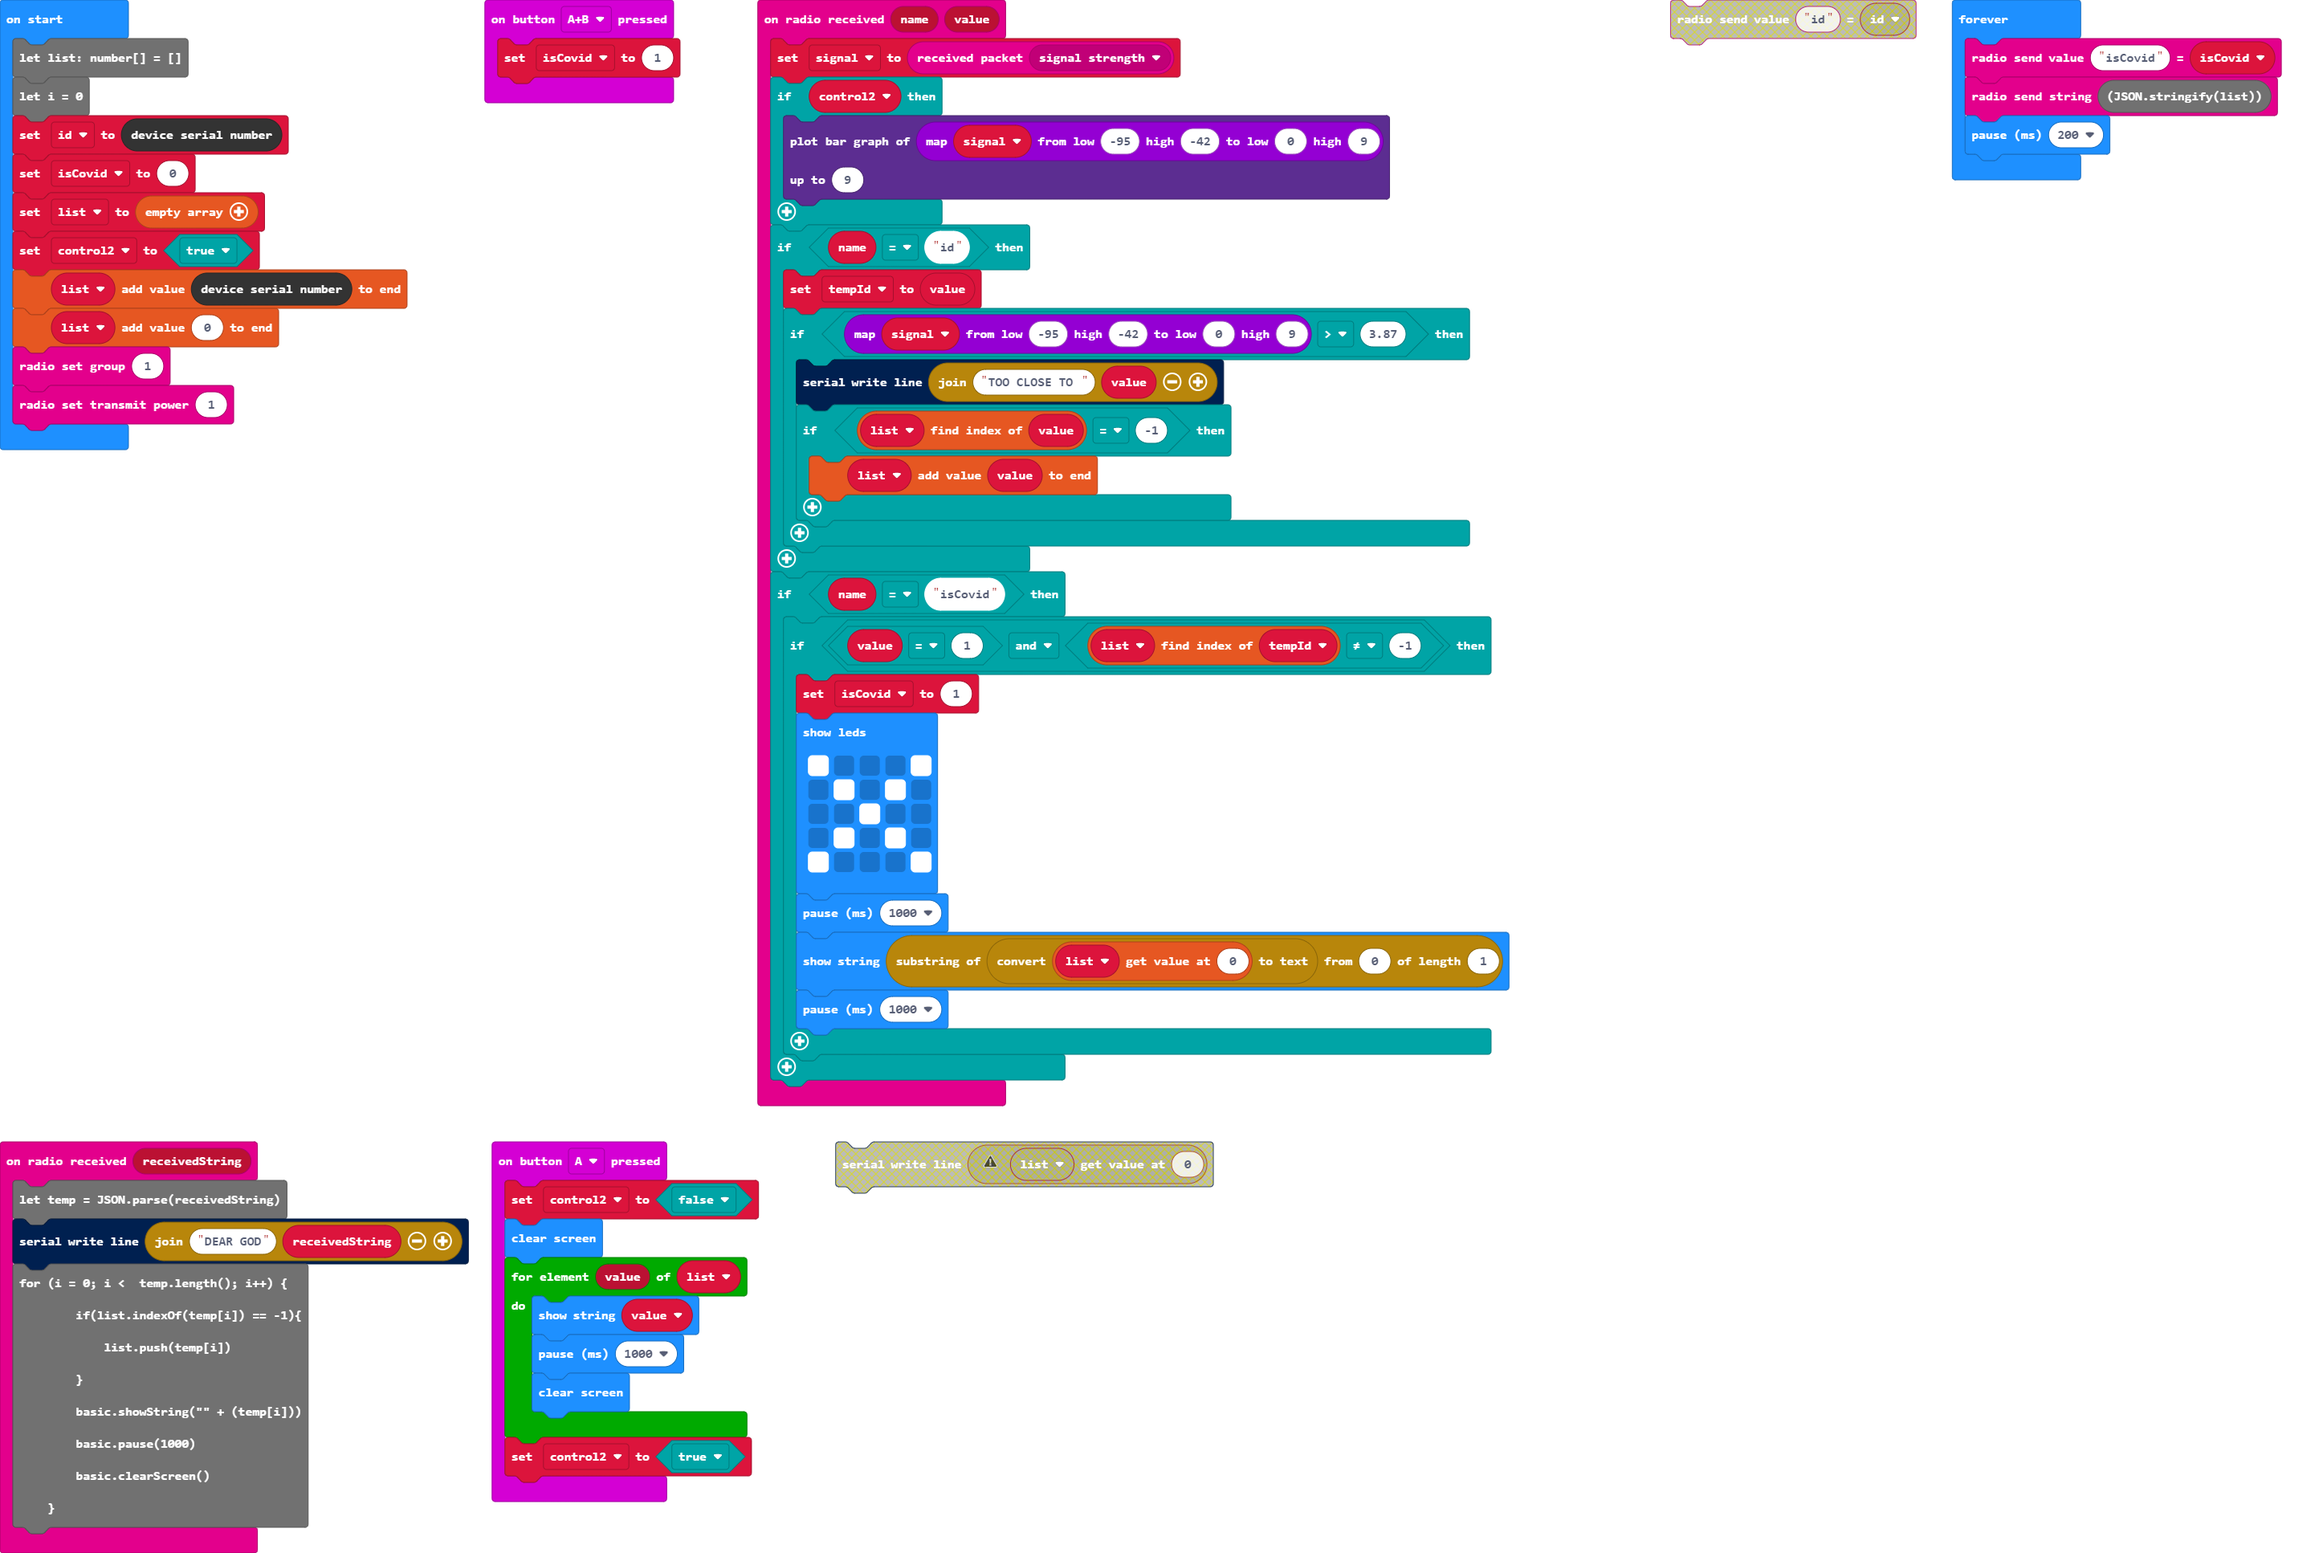
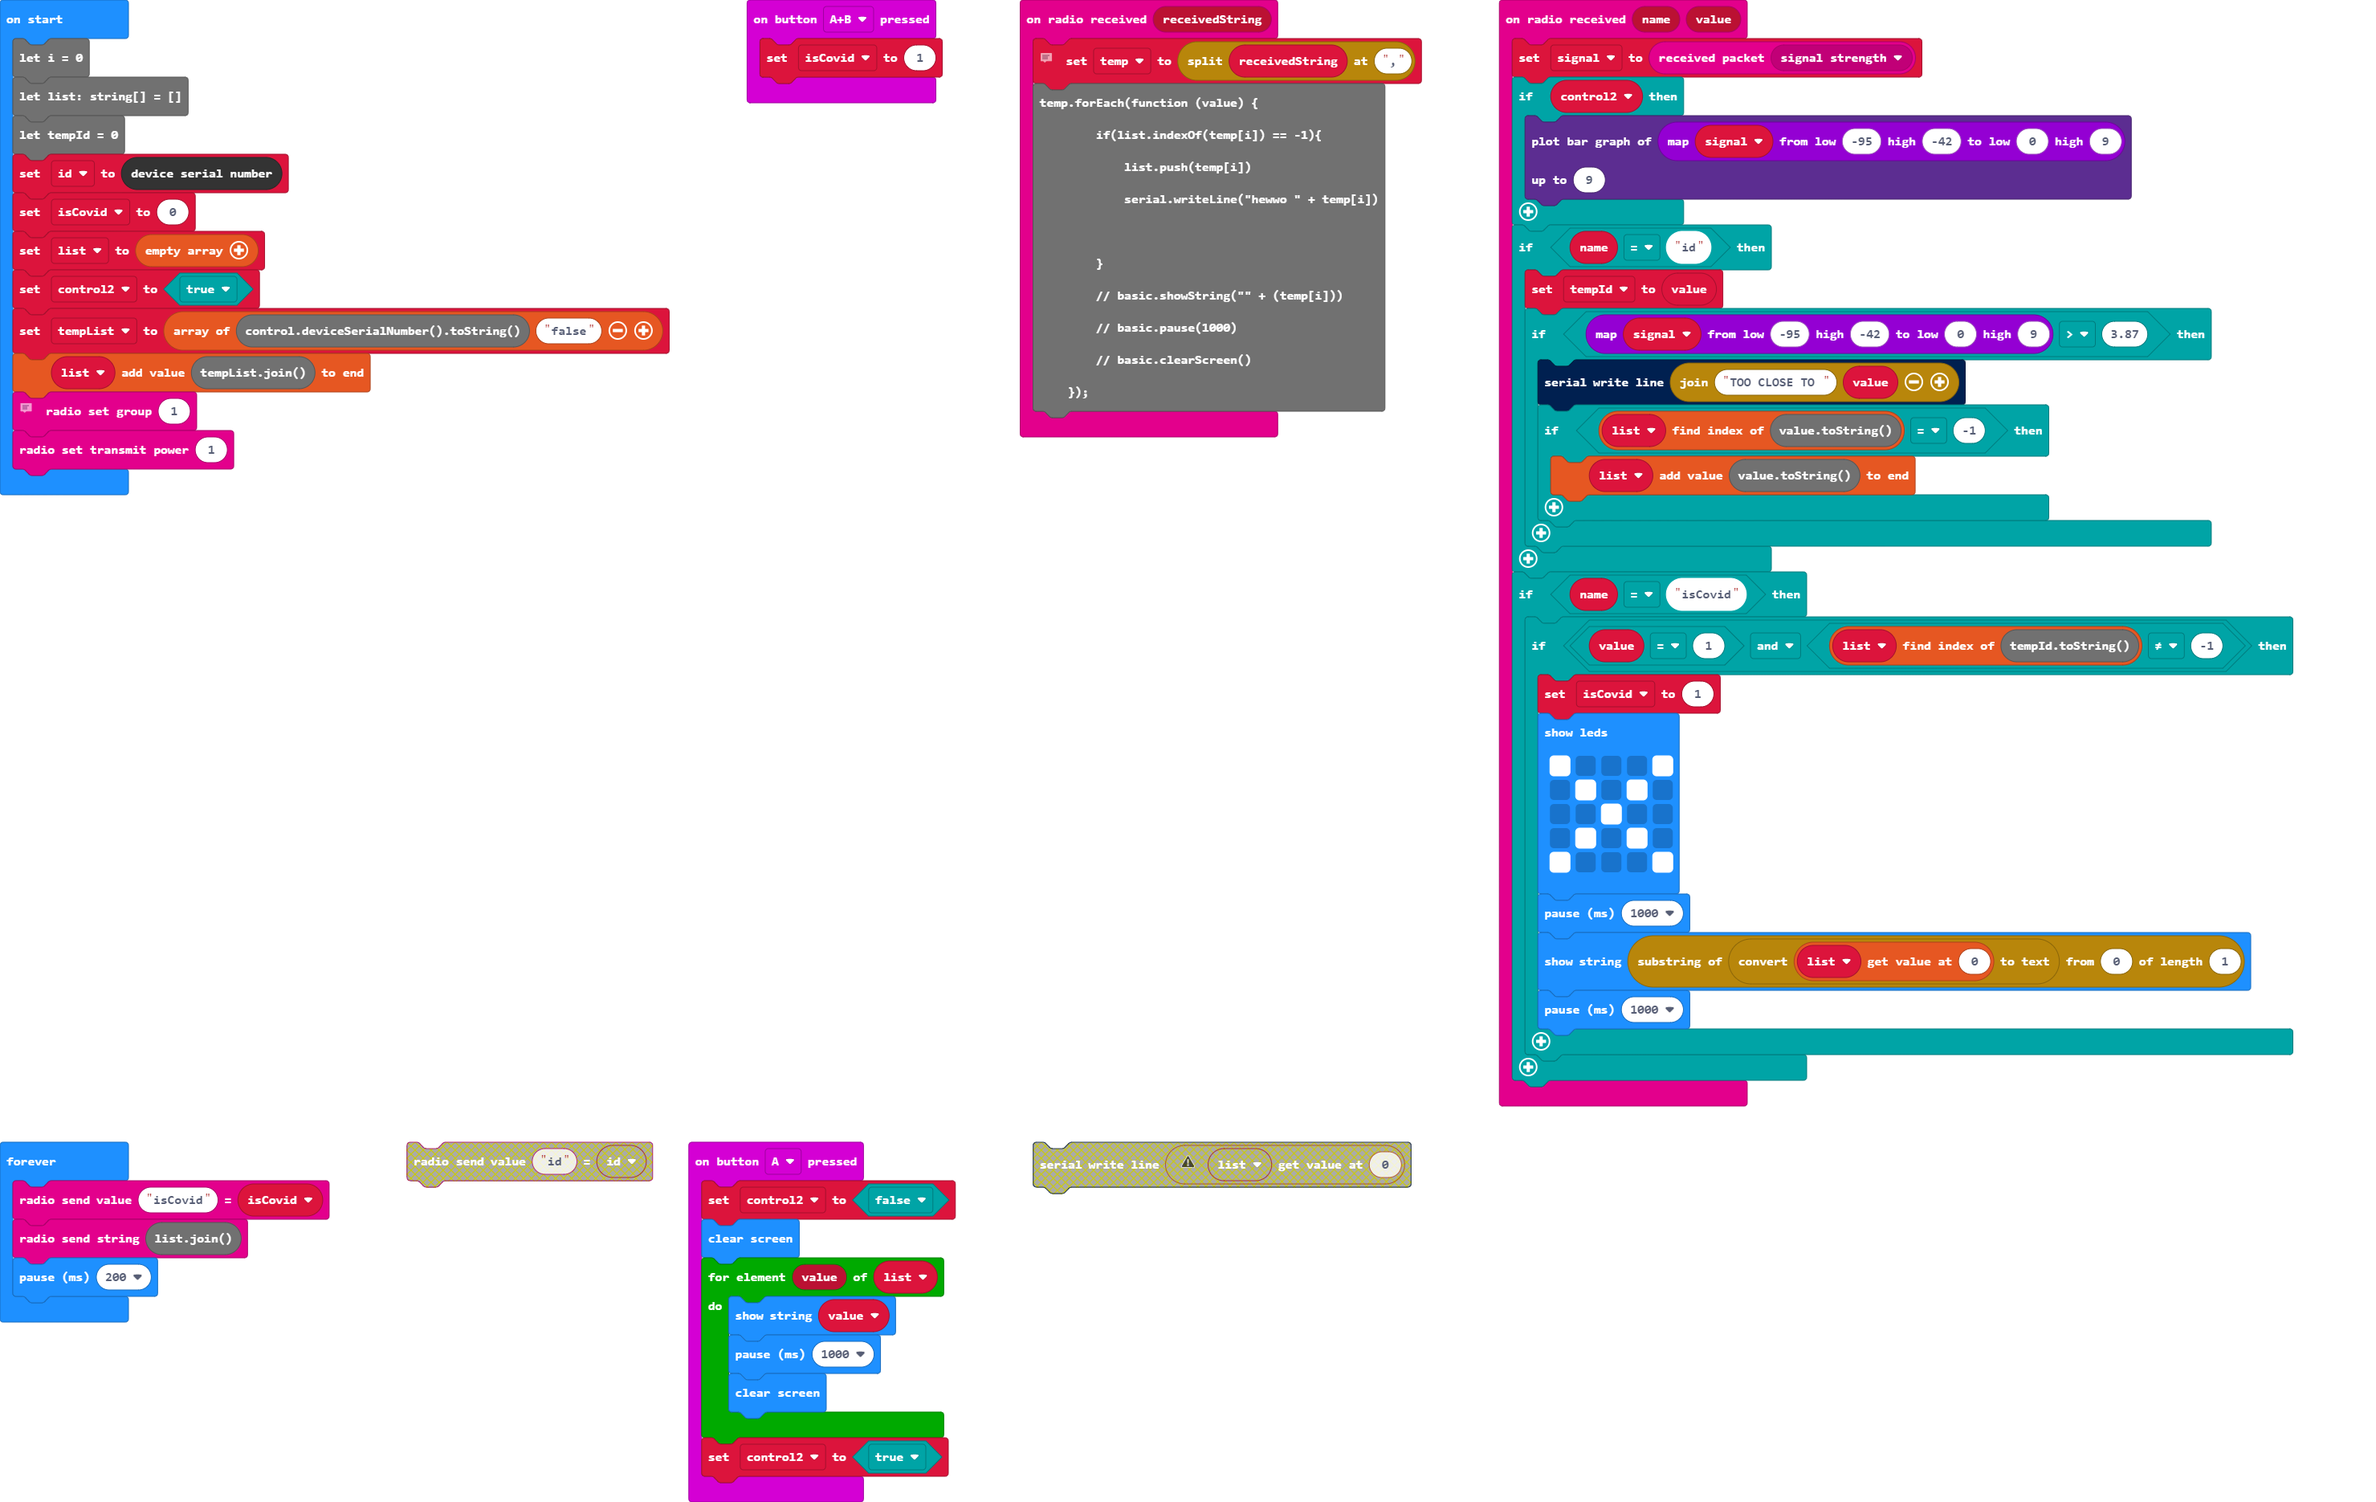
Functioning Code

diff --git a/main.ts b/main.ts
@@ -15,44 +15,29 @@ input.onButtonPressed(Button.AB, function () {
     isCovid = 1
 })
 radio.onReceivedString(function (receivedString) {
-    //let temp = JSON.parse(receivedString)
-    let temp = receivedString.split(",")
-    
-
-    
-    //serial.writeLine("DEAR GOD" + temp.length)
-
-    temp.forEach(function (value) {
-        if(list.indexOf(temp[i]) == -1){
-            list.push(temp[i])
-            serial.writeLine("hewwo " + temp[i])
-            
-        }
-        // basic.showString("" + (temp[i]))
-        // basic.pause(1000)
-        // basic.clearScreen()
-    }); 
+    // let temp = JSON.parse(receivedString)
+    if (Math.map(signal, -95, -42, 0, 9) > 3.87) {
+        temp = receivedString.split(",")
+        temp.forEach(function (value) {
+            if(list.indexOf(value) == -1){
+                list.push(value)
+                serial.writeLine("hewwo " + value)   
+            }
+        });
+    }
 
 })
 radio.onReceivedValue(function (name, value) {
     signal = radio.receivedPacket(RadioPacketProperty.SignalStrength)
     if (control2) {
         led.plotBarGraph(
-        Math.map(signal, -95, -42, 0, 9),
-        9
-        )
+        Math.map(signal, -95, -42, 0, 9),9)
     }
-    if (name == "id") {
-        tempId = value
-        if (Math.map(signal, -95, -42, 0, 9) > 3.87) {
-            serial.writeLine("TOO CLOSE TO " + value)
-            if (list.indexOf(value.toString()) == -1) {
-                list.push(value.toString())
-            }
-        }
+    if(name == 'id'){
+        tempId = value;
     }
     if (name == "isCovid") {
-        if (value == 1 && list.indexOf(tempId.toString()) != -1) {
+        if (value == 1 && list.indexOf(("" + tempId)) != -1) {
             isCovid = 1
             basic.showLeds(`
                 # . . . #
@@ -67,23 +52,25 @@ radio.onReceivedValue(function (name, value) {
         }
     }
 })
-let tempId = 0
 let signal = 0
+let temp: string[] = []
 let control2 = false
 let isCovid = 0
-let list: string[] = []
 let i = 0
+let list: string[] = []
+let tempId = 0
 let id = control.deviceSerialNumber()
 isCovid = 0
 list = []
 control2 = true
-let tempList: string[] = [control.deviceSerialNumber().toString(), "false"]
+let tempList = [control.deviceSerialNumber().toString(), "false"]
 list.push(tempList.join())
-//list.push("0")
+// list.push("0")
 radio.setGroup(1)
 radio.setTransmitPower(1)
 basic.forever(function () {
     radio.sendValue("isCovid", isCovid)
-    radio.sendString((list.join()))
+    radio.sendValue("id", id)
+    radio.sendString("" + (list.join()))
     basic.pause(200)
 })
